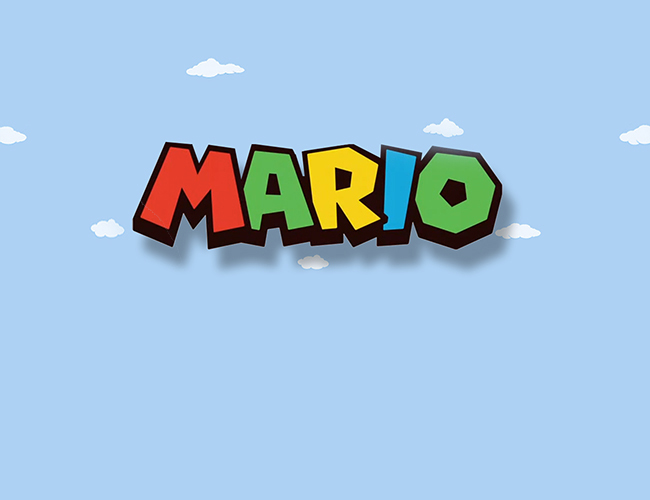
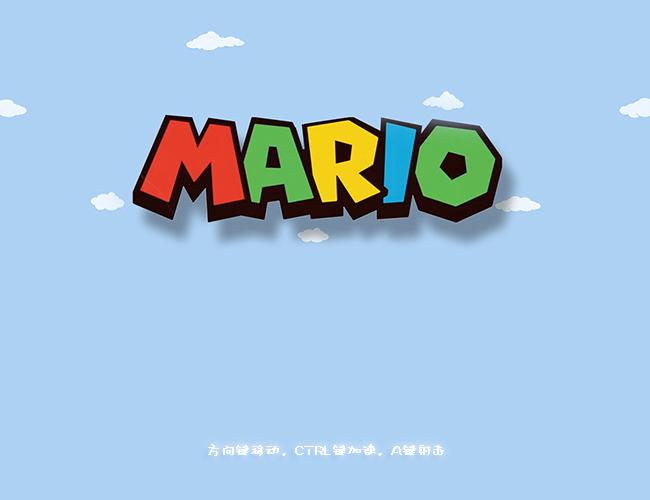
final

diff --git a/js/manager.js b/js/manager.js
@@ -1,4 +1,89 @@
-var keys = {
+var menu = {
+	bind: function(game) {
+		$('#enter').on('click', function(event) {	
+			menu.enterHandler(event, game);
+		});
+		$('#continue').on('click', function(event) {	
+			menu.continueHandler(event, game);
+		});
+		$('#pause').on('click', function(event) {	
+			menu.pauseHandler(event, game);
+		});
+		$('#settings').on('click', function(event) {	
+			menu.settingsHandler(event, game);
+		});	
+		$('#exit').on('click', function(event) {	
+			menu.exitHandler(event, game);
+		});			
+ 	},
+	reset: function() {
+		menu.pause = false;
+		menu.setting = false;
+	},
+	unbind: function() {
+		$('#enter').off('click');
+		$('#continue').off('click');
+		$('#pause').off('click');
+		$('#settings').off('click');
+		$('#exit').off('click');
+	},
+	enterHandler: function(event, game) {
+		$('#home').css('display', 'none');
+		$('#enter').css('display', 'none');
+		$('#continue').css('display', 'none');
+		game.load(definedLevels[0]);
+		game.start();
+	},
+	continueHandler: function(event, game) {
+		$('#home').css('display', 'none');
+		$('#enter').css('display', 'none');
+		$('#continue').css('display', 'none');
+		game.load(definedLevels[game.levelID-1]);
+		game.start();
+	},
+	pauseHandler: function(event, game) {
+		if(!menu.pause) {
+			$('#pause').html('▷');
+			menu.pause = true;
+			game.pause();
+			game.pauseMusic();
+		}
+		else {
+			$('#pause').html('II');
+			menu.pause = false;
+			game.start();
+		}
+	},
+	settingsHandler: function(event, game) {
+		if(menu.setting) {
+			$('.nstSlider').css('display', 'none');
+			menu.setting = false;
+		}
+		else {
+			$('.nstSlider').css('display', 'block');
+			menu.setting = true;
+			$('.nstSlider').nstSlider({
+				"left_grip_selector": ".leftGrip",
+                "right_grip_selector": ".rightGrip",
+                "value_changed_callback": function(cause, leftValue, rightValue) {
+                    game.setMusicVolume(leftValue / 100);
+                    game.setSoundVolume(rightValue / 100);
+                },
+            });
+		}			
+	},
+	exitHandler: function(event, game) {
+		game.pause();
+		game.pauseMusic();
+		$('#home').css('display', 'block');
+		$('#enter').css('display', 'block');
+		$('#continue').css('display', 'block');
+	},
+	pause: false,
+	setting: false,
+};
+
+var keys = {
 	bind: function() {
 		$(document).on('keydown', function(event) {	
 			return keys.handler(event, true);
@@ -8,11 +93,12 @@
 		});
 	},
 	reset: function() {
+		keys.accelerate = false;
 		keys.left = false;
 		keys.right = false;
-		keys.accelerate = false;
 		keys.up = false;
 		keys.down = false;
+		keys.shoot = false;
 	},
 	unbind: function() {
 		$(document).off('keydown');
@@ -22,7 +108,6 @@
 		switch(event.keyCode) {
 			case 57392://CTRL on MAC
 			case 17://CTRL
-			case 65://A
 				keys.accelerate = status;
 				break;
 			case 40://DOWN ARROW
@@ -37,6 +122,9 @@
 			case 38://UP ARROW
 				keys.up = status;
 				break;
+			case 65://A
+				keys.shoot = status;
+				break;
 			default:
 				return true;
 		}
@@ -49,6 +137,7 @@
 	up: false,
 	right: false,
 	down: false,
+	shoot:false,
 };
 
 var SoundManager = {
@@ -143,89 +232,4 @@ var SoundManager = {
 	setMusicVolume: function(val) {
 		groundTheme.volume = val;
 	},
-};
-
-var menu = {
-	bind: function(game) {
-		$('#enter').on('click', function(event) {	
-			menu.enterHandler(event, game);
-		});
-		$('#continue').on('click', function(event) {	
-			menu.continueHandler(event, game);
-		});
-		$('#pause').on('click', function(event) {	
-			menu.pauseHandler(event, game);
-		});
-		$('#settings').on('click', function(event) {	
-			menu.settingsHandler(event, game);
-		});	
-		$('#exit').on('click', function(event) {	
-			menu.exitHandler(event, game);
-		});			
- 	},
-	reset: function() {
-		menu.pause = false;
-		menu.setting = false;
-	},
-	unbind: function() {
-		$('#enter').off('click');
-		$('#continue').off('click');
-		$('#pause').off('click');
-		$('#settings').off('click');
-		$('#exit').off('click');
-	},
-	enterHandler: function(event, game) {
-		$('#home').css('display', 'none');
-		$('#enter').css('display', 'none');
-		$('#continue').css('display', 'none');
-		game.load(definedLevels[0]);
-		game.start();
-	},
-	continueHandler: function(event, game) {
-		$('#home').css('display', 'none');
-		$('#enter').css('display', 'none');
-		$('#continue').css('display', 'none');
-		game.load(definedLevels[game.levelID-1]);
-		game.start();
-	},
-	pauseHandler: function(event, game) {
-		if(!menu.pause) {
-			$('#pause').html('▷');
-			menu.pause = true;
-			game.pause();
-			game.pauseMusic();
-		}
-		else {
-			$('#pause').html('II');
-			menu.pause = false;
-			game.start();
-		}
-	},
-	settingsHandler: function(event, game) {
-		if(menu.setting) {
-			$('.nstSlider').css('display', 'none');
-			menu.setting = false;
-		}
-		else {
-			$('.nstSlider').css('display', 'block');
-			menu.setting = true;
-			$('.nstSlider').nstSlider({
-				"left_grip_selector": ".leftGrip",
-                "right_grip_selector": ".rightGrip",
-                "value_changed_callback": function(cause, leftValue, rightValue) {
-                    game.setMusicVolume(leftValue / 100);
-                    game.setSoundVolume(rightValue / 100);
-                },
-            });
-		}			
-	},
-	exitHandler: function(event, game) {
-		game.pause();
-		game.pauseMusic();
-		$('#home').css('display', 'block');
-		$('#enter').css('display', 'block');
-		$('#continue').css('display', 'block');
-	},
-	pause: false,
-	setting: false,
 };

diff --git a/js/figure.js b/js/figure.js
@@ -324,7 +324,7 @@ var Mario = Figure.extend({
 			if(this.onground && keys.up)
 				this.jump();
 			
-			if(keys.accelerate && this.marioState === mario_states.fire)
+			if(keys.shoot && this.marioState === mario_states.fire)
 				this.shoot();
 			
 			if(keys.right || keys.left)
@@ -899,6 +899,7 @@ var SpikedTurtle = Enemy.extend({
 		return (this.deathCount > 0);
 	},
 	die: function() {
+		this.level.playSound('killEnemy');
 		this.clearFrames();
 		this._super();
 		this.deathCount = Math.ceil(600 / constants.interval);
@@ -957,6 +958,7 @@ var Plant = Enemy.extend({
 		this._super(0, 0);
 	},
 	die: function() {
+		this.level.playSound('killEnemy');
 		this.clearFrames();
 		this._super();
 	},
@@ -969,7 +971,7 @@ var Plant = Enemy.extend({
 		}
 	},
 	playFrame: function() {		
-	if(this.frameTick) {
+		if(this.frameTick) {
 		this.frameTimer += delta;
 		if(this.frameTimer > this.frameTick){
 			this.currentFrame++;
@@ -996,17 +998,28 @@ var StaticPlant = Plant.extend({
 	},
 	die: function() {
 		this._super();
+		this.deathCount = Math.ceil(600 / constants.interval);
 		this.setImage(images.enemies, 68, 3);
 	},
-	death: function() {
-		this.deathCount += this.deathDir;
-		
-		if(this.deathCount === this.deathFrames)
-			this.deathDir = -1;
-		else if(this.deathCount === 0)
-			return false;
-			
-		return true;
+	death: function() {		
+		return this.deathCount > 0;
+	},
+	playFrame: function() {
+		if(this.deathCount)
+			this.deathCount--;
+		if(this.frameTick) {
+			this.frameTimer += delta;
+			if(this.frameTimer > this.frameTick){
+				this.currentFrame++;
+				if(this.currentFrame >= this.frames)
+					this.currentFrame = 0;
+				this.frameTimer %= this.frameTick;
+			}
+				ctx1.drawImage(this.image.img, this.image.x + this.width * ((this.rewindFrames ? this.frames-1 : 0) - this.currentFrame), this.image.y, this.width, this.height, this.x, can.height - this.y - this.height, this.width, this.height);
+
+		}
+		else
+			ctx1.drawImage(this.image.img, this.image.x, this.image.y, this.width, this.height, this.x, can.height - this.y - this.height, this.width, this.height);
 	},
 }, 'staticplant');
 

diff --git a/css/index.css b/css/index.css
@@ -47,19 +47,19 @@
 }
 #enter, #continue {
 	position:absolute;
-	top:300px;
-	right:200px;
-	width:64px;
-	height:32px;
+	border:none;
+	top:310px;
+	width:214px;
+	height:40px;
 	z-index:5;
 }
+#enter {
+	left:55px;
+	background:url('../images/start.png');
+}
 #continue {
-	position:absolute;
-	top:300px;
-	right:100px;
-	width:64px;
-	height:32px;
-	z-index:5;
+	right:55px;
+	background:url('../images/continue.png');
 }
 #pause {
 	right:110px;
@@ -78,7 +78,7 @@
 	height:auto;
 	left:170px;
 	top:100px;
-	opacity:0.3;
+	opacity:0.6;
 	display:none;
 	z-index:3;
 }

diff --git a/index.html b/index.html
@@ -10,8 +10,8 @@
 	
 	<body>
 		<div id="game">
-			<button id="enter">enter</button>
-			<button id="continue">continue</button>
+			<button id="enter"></button>
+			<button id="continue"></button>
 			<div class="nstSlider" data-range_min="0" data-range_max="100"  data-cur_min="50"  data-cur_max="100">                                                                 
 				<div class="leftGrip">music</div> 
 				<div class="rightGrip">sound</div> 

diff --git a/js/main.js b/js/main.js
@@ -320,7 +320,7 @@ var GameController = Base.extend({
 });
 
 $(document).ready(function() {
-	var gameController = new GameController;
+	var gameController = new GameController;	
+	menu.bind(gameController);
 	keys.bind();
-	menu.bind(gameController);	
 });
